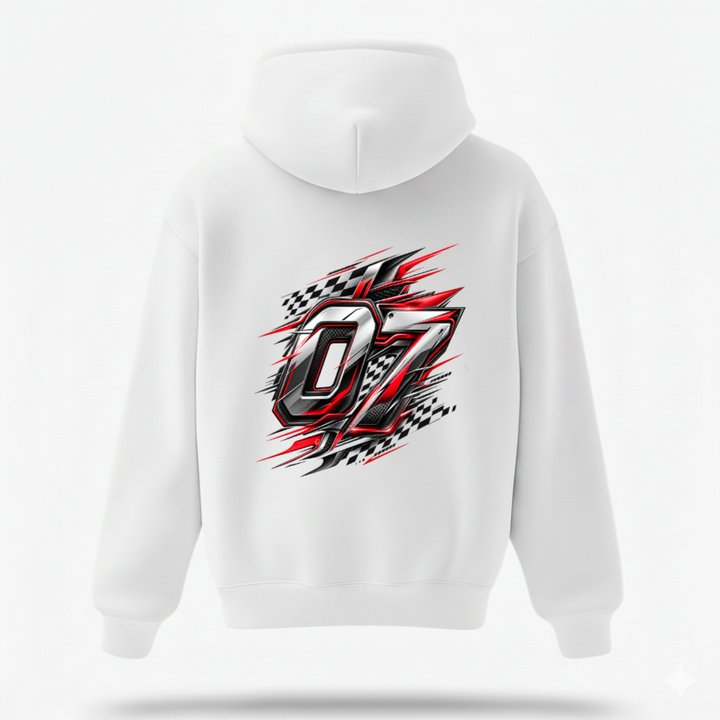
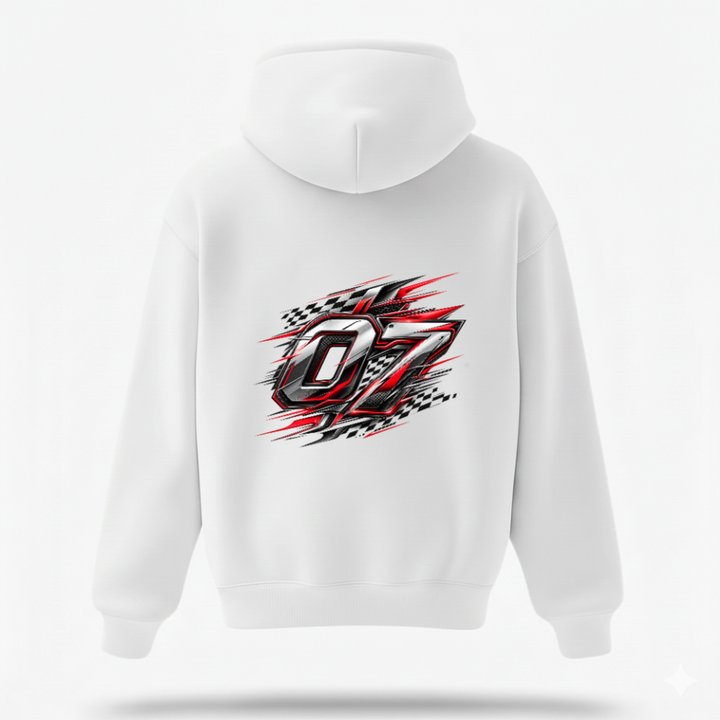
No. 07 Hoodie: 30x30 düzeltilmiş arka ve logolu ön görsel
Claude-Session: https://claude.ai/code/session_018UTe8jw9DkJm2qtk3Ff6Hs

Changed region(s): [[0.3667, 0.3361, 0.6417, 0.6722]]

diff --git a/index.html b/index.html
@@ -379,7 +379,7 @@ a.card-link:hover .buy{opacity:.7}
         </li>
         <li class="card" data-kat="hoodie">
           <a class="card-link" href="#urun" data-p="no07-hoodie-beyaz" aria-label="No. 07 Hoodie, Beyaz, 1.499 TL">
-            <div class="card-ph"><img src="img/urun/no07-hoodie-beyaz-arka.jpg" alt="No. 07 Hoodie premium oversize hoodie, beyaz" loading="lazy" width="720" height="720"></div>
+            <div class="card-ph"><img src="img/urun/no07-hoodie-beyaz-arka.jpg" alt="No. 07 Hoodie premium oversize hoodie, beyaz" loading="lazy" width="720" height="720"><img class="alt" src="img/urun/no07-hoodie-beyaz-on.jpg" alt="" aria-hidden="true" loading="lazy" width="720" height="720"></div>
             <div class="card-body">
               <p class="mono muted" style="margin:0">Hoodie · Premium Oversize</p>
               <h3>No. 07 Hoodie</h3>
@@ -616,7 +616,7 @@ a.card-link:hover .buy{opacity:.7}
 
 <script>
 (function(){
-  var P = [{"id": "quiet-tisort-siyah", "kind": "Tişört · Oversize", "name": "Quiet Is a Style.", "sub": "Oversize Tişört", "color": "Siyah", "price": "849 TL", "url": "https://www.shopier.com/avenzastudious/52022560", "back": "img/urun/quiet-tisort-siyah-arka.jpg", "front": "img/urun/quiet-tisort-siyah-on.jpg", "fit": "tee", "lbl": [["Kesim", "Oversize, unisex"], ["Renk", "Siyah"], ["Baskı", "Sırt, beyaz"], ["Üretim", "Siparişe özel basılır"], ["Kargo", "Ücretsiz"]]}, {"id": "quiet-tisort-beyaz", "kind": "Tişört · Oversize", "name": "Quiet Is a Style.", "sub": "Oversize Tişört", "color": "Beyaz", "price": "849 TL", "url": "https://www.shopier.com/avenzastudious/52161305", "back": "img/urun/quiet-tisort-beyaz-arka.jpg", "front": null, "fit": "tee", "lbl": [["Kesim", "Oversize, unisex"], ["Renk", "Beyaz"], ["Baskı", "Sırt, siyah"], ["Üretim", "Siparişe özel basılır"], ["Kargo", "Ücretsiz"]]}, {"id": "wings-hoodie-siyah", "kind": "Hoodie · Premium Oversize", "name": "Wings Hoodie", "sub": "Premium Oversize Hoodie", "color": "Siyah", "price": "1.499 TL", "url": "https://www.shopier.com/avenzastudious/52160259", "back": "img/urun/wings-hoodie-siyah-arka.jpg", "front": "img/urun/wings-hoodie-siyah-on.jpg", "fit": "hoodie", "lbl": [["Kesim", "Premium oversize"], ["Kumaş", "%100 pamuk, şardonlu 3 iplik, 320 gr"], ["Renk", "Siyah"], ["Baskı", "Ön: logo · Sırt: kanat, beyaz"], ["Kargo", "Ücretsiz"]]}, {"id": "wings-hoodie-beyaz", "kind": "Hoodie · Premium Oversize", "name": "Wings Hoodie", "sub": "Premium Oversize Hoodie", "color": "Beyaz", "price": "1.499 TL", "url": "https://www.shopier.com/avenzastudious/52160653", "back": "img/urun/wings-hoodie-beyaz-arka.jpg", "front": "img/urun/wings-hoodie-beyaz-on.jpg", "fit": "hoodie", "lbl": [["Kesim", "Premium oversize"], ["Kumaş", "%100 pamuk, şardonlu 3 iplik, 320 gr"], ["Renk", "Beyaz"], ["Baskı", "Ön: logo · Sırt: kanat, siyah"], ["Kargo", "Ücretsiz"]]}, {"id": "wings-hoodie-lacivert", "kind": "Hoodie · Premium Oversize", "name": "Wings Hoodie", "sub": "Premium Oversize Hoodie", "color": "Lacivert", "price": "1.499 TL", "url": "https://www.shopier.com/avenzastudious/52160919", "back": "img/urun/wings-hoodie-lacivert-arka.jpg", "front": "img/urun/wings-hoodie-lacivert-on.jpg", "fit": "hoodie", "lbl": [["Kesim", "Premium oversize"], ["Kumaş", "%100 pamuk, şardonlu 3 iplik, 320 gr"], ["Renk", "Lacivert"], ["Baskı", "Ön: logo · Sırt: kanat, beyaz"], ["Kargo", "Ücretsiz"]]}, {"id": "rose-hoodie-beyaz", "kind": "Hoodie · Premium Oversize", "name": "Rose Hoodie", "sub": "Premium Oversize Hoodie", "color": "Beyaz", "price": "1.499 TL", "url": "https://www.shopier.com/avenzastudious/52161137", "back": "img/urun/rose-hoodie-beyaz-arka.jpg", "front": "img/urun/rose-hoodie-beyaz-on.jpg", "fit": "hoodie", "lbl": [["Kesim", "Premium oversize"], ["Kumaş", "%100 pamuk, şardonlu 3 iplik, 320 gr"], ["Renk", "Beyaz"], ["Baskı", "Ön: küçük gül · Sırt: gül tutan el"], ["Kargo", "Ücretsiz"]]}, {"id": "butterfly-hoodie-siyah", "kind": "Hoodie · Premium Oversize", "name": "Butterfly Hoodie", "sub": "Premium Oversize Hoodie", "color": "Siyah", "price": "1.499 TL", "url": "https://www.shopier.com/avenzastudious/52170211", "back": "img/urun/butterfly-hoodie-siyah-arka.jpg", "front": "img/urun/butterfly-hoodie-siyah-on.jpg", "fit": "hoodie", "lbl": [["Kesim", "Premium oversize"], ["Kumaş", "%100 pamuk, şardonlu 3 iplik, 320 gr"], ["Renk", "Siyah"], ["Baskı", "Ön: küçük amblem · Sırt: kelebek amblemi"], ["Kargo", "Ücretsiz"]]}, {"id": "no07-hoodie-beyaz", "kind": "Hoodie · Premium Oversize", "name": "No. 07 Hoodie", "sub": "Premium Oversize Hoodie", "color": "Beyaz", "price": "1.499 TL", "url": "https://www.shopier.com/avenzastudious/52170647", "back": "img/urun/no07-hoodie-beyaz-arka.jpg", "front": null, "fit": "hoodie", "lbl": [["Kesim", "Premium oversize"], ["Kumaş", "%100 pamuk, şardonlu 3 iplik, 320 gr"], ["Renk", "Beyaz"], ["Baskı", "Ön: logo · Sırt: 07 baskısı"], ["Kargo", "Ücretsiz"]]}, {"id": "quiet-sweatshirt-siyah", "kind": "Sweatshirt · Premium Oversize", "name": "Quiet Is a Style. Sweatshirt", "sub": "Premium Oversize Sweatshirt", "color": "Siyah", "price": "1.349 TL", "url": null, "back": "img/urun/quiet-sweatshirt-siyah-arka.jpg", "front": "img/urun/quiet-sweatshirt-siyah-on.jpg", "fit": "hoodie", "lbl": [["Kesim", "Premium oversize, kapüşonsuz"], ["Kumaş", "%100 pamuk, şardonlu 3 iplik, 320 gr"], ["Renk", "Siyah"], ["Baskı", "Ön: logo · Sırt: Quiet is a style."], ["Kargo", "Ücretsiz"]]}, {"id": "quiet-sweatshirt-lacivert", "kind": "Sweatshirt · Premium Oversize", "name": "Quiet Is a Style. Sweatshirt", "sub": "Premium Oversize Sweatshirt", "color": "Lacivert", "price": "1.349 TL", "url": null, "back": "img/urun/quiet-sweatshirt-lacivert-arka.jpg", "front": "img/urun/quiet-sweatshirt-lacivert-on.jpg", "fit": "hoodie", "lbl": [["Kesim", "Premium oversize, kapüşonsuz"], ["Kumaş", "%100 pamuk, şardonlu 3 iplik, 320 gr"], ["Renk", "Lacivert"], ["Baskı", "Ön: logo · Sırt: Quiet is a style."], ["Kargo", "Ücretsiz"]]}];
+  var P = [{"id": "quiet-tisort-siyah", "kind": "Tişört · Oversize", "name": "Quiet Is a Style.", "sub": "Oversize Tişört", "color": "Siyah", "price": "849 TL", "url": "https://www.shopier.com/avenzastudious/52022560", "back": "img/urun/quiet-tisort-siyah-arka.jpg", "front": "img/urun/quiet-tisort-siyah-on.jpg", "fit": "tee", "lbl": [["Kesim", "Oversize, unisex"], ["Renk", "Siyah"], ["Baskı", "Sırt, beyaz"], ["Üretim", "Siparişe özel basılır"], ["Kargo", "Ücretsiz"]]}, {"id": "quiet-tisort-beyaz", "kind": "Tişört · Oversize", "name": "Quiet Is a Style.", "sub": "Oversize Tişört", "color": "Beyaz", "price": "849 TL", "url": "https://www.shopier.com/avenzastudious/52161305", "back": "img/urun/quiet-tisort-beyaz-arka.jpg", "front": null, "fit": "tee", "lbl": [["Kesim", "Oversize, unisex"], ["Renk", "Beyaz"], ["Baskı", "Sırt, siyah"], ["Üretim", "Siparişe özel basılır"], ["Kargo", "Ücretsiz"]]}, {"id": "wings-hoodie-siyah", "kind": "Hoodie · Premium Oversize", "name": "Wings Hoodie", "sub": "Premium Oversize Hoodie", "color": "Siyah", "price": "1.499 TL", "url": "https://www.shopier.com/avenzastudious/52160259", "back": "img/urun/wings-hoodie-siyah-arka.jpg", "front": "img/urun/wings-hoodie-siyah-on.jpg", "fit": "hoodie", "lbl": [["Kesim", "Premium oversize"], ["Kumaş", "%100 pamuk, şardonlu 3 iplik, 320 gr"], ["Renk", "Siyah"], ["Baskı", "Ön: logo · Sırt: kanat, beyaz"], ["Kargo", "Ücretsiz"]]}, {"id": "wings-hoodie-beyaz", "kind": "Hoodie · Premium Oversize", "name": "Wings Hoodie", "sub": "Premium Oversize Hoodie", "color": "Beyaz", "price": "1.499 TL", "url": "https://www.shopier.com/avenzastudious/52160653", "back": "img/urun/wings-hoodie-beyaz-arka.jpg", "front": "img/urun/wings-hoodie-beyaz-on.jpg", "fit": "hoodie", "lbl": [["Kesim", "Premium oversize"], ["Kumaş", "%100 pamuk, şardonlu 3 iplik, 320 gr"], ["Renk", "Beyaz"], ["Baskı", "Ön: logo · Sırt: kanat, siyah"], ["Kargo", "Ücretsiz"]]}, {"id": "wings-hoodie-lacivert", "kind": "Hoodie · Premium Oversize", "name": "Wings Hoodie", "sub": "Premium Oversize Hoodie", "color": "Lacivert", "price": "1.499 TL", "url": "https://www.shopier.com/avenzastudious/52160919", "back": "img/urun/wings-hoodie-lacivert-arka.jpg", "front": "img/urun/wings-hoodie-lacivert-on.jpg", "fit": "hoodie", "lbl": [["Kesim", "Premium oversize"], ["Kumaş", "%100 pamuk, şardonlu 3 iplik, 320 gr"], ["Renk", "Lacivert"], ["Baskı", "Ön: logo · Sırt: kanat, beyaz"], ["Kargo", "Ücretsiz"]]}, {"id": "rose-hoodie-beyaz", "kind": "Hoodie · Premium Oversize", "name": "Rose Hoodie", "sub": "Premium Oversize Hoodie", "color": "Beyaz", "price": "1.499 TL", "url": "https://www.shopier.com/avenzastudious/52161137", "back": "img/urun/rose-hoodie-beyaz-arka.jpg", "front": "img/urun/rose-hoodie-beyaz-on.jpg", "fit": "hoodie", "lbl": [["Kesim", "Premium oversize"], ["Kumaş", "%100 pamuk, şardonlu 3 iplik, 320 gr"], ["Renk", "Beyaz"], ["Baskı", "Ön: küçük gül · Sırt: gül tutan el"], ["Kargo", "Ücretsiz"]]}, {"id": "butterfly-hoodie-siyah", "kind": "Hoodie · Premium Oversize", "name": "Butterfly Hoodie", "sub": "Premium Oversize Hoodie", "color": "Siyah", "price": "1.499 TL", "url": "https://www.shopier.com/avenzastudious/52170211", "back": "img/urun/butterfly-hoodie-siyah-arka.jpg", "front": "img/urun/butterfly-hoodie-siyah-on.jpg", "fit": "hoodie", "lbl": [["Kesim", "Premium oversize"], ["Kumaş", "%100 pamuk, şardonlu 3 iplik, 320 gr"], ["Renk", "Siyah"], ["Baskı", "Ön: küçük amblem · Sırt: kelebek amblemi"], ["Kargo", "Ücretsiz"]]}, {"id": "no07-hoodie-beyaz", "kind": "Hoodie · Premium Oversize", "name": "No. 07 Hoodie", "sub": "Premium Oversize Hoodie", "color": "Beyaz", "price": "1.499 TL", "url": "https://www.shopier.com/avenzastudious/52170647", "back": "img/urun/no07-hoodie-beyaz-arka.jpg", "front": "img/urun/no07-hoodie-beyaz-on.jpg", "fit": "hoodie", "lbl": [["Kesim", "Premium oversize"], ["Kumaş", "%100 pamuk, şardonlu 3 iplik, 320 gr"], ["Renk", "Beyaz"], ["Baskı", "Ön: logo · Sırt: 07 baskısı"], ["Kargo", "Ücretsiz"]]}, {"id": "quiet-sweatshirt-siyah", "kind": "Sweatshirt · Premium Oversize", "name": "Quiet Is a Style. Sweatshirt", "sub": "Premium Oversize Sweatshirt", "color": "Siyah", "price": "1.349 TL", "url": null, "back": "img/urun/quiet-sweatshirt-siyah-arka.jpg", "front": "img/urun/quiet-sweatshirt-siyah-on.jpg", "fit": "hoodie", "lbl": [["Kesim", "Premium oversize, kapüşonsuz"], ["Kumaş", "%100 pamuk, şardonlu 3 iplik, 320 gr"], ["Renk", "Siyah"], ["Baskı", "Ön: logo · Sırt: Quiet is a style."], ["Kargo", "Ücretsiz"]]}, {"id": "quiet-sweatshirt-lacivert", "kind": "Sweatshirt · Premium Oversize", "name": "Quiet Is a Style. Sweatshirt", "sub": "Premium Oversize Sweatshirt", "color": "Lacivert", "price": "1.349 TL", "url": null, "back": "img/urun/quiet-sweatshirt-lacivert-arka.jpg", "front": "img/urun/quiet-sweatshirt-lacivert-on.jpg", "fit": "hoodie", "lbl": [["Kesim", "Premium oversize, kapüşonsuz"], ["Kumaş", "%100 pamuk, şardonlu 3 iplik, 320 gr"], ["Renk", "Lacivert"], ["Baskı", "Ön: logo · Sırt: Quiet is a style."], ["Kargo", "Ücretsiz"]]}];
   var TEE = {S:[55,71], M:[56,73], L:[59,75], XL:[61,76], XXL:[63,78]};
   var cur = P[0], size = 'M', side = 'back';
   var $ = function(id){ return document.getElementById(id); };
